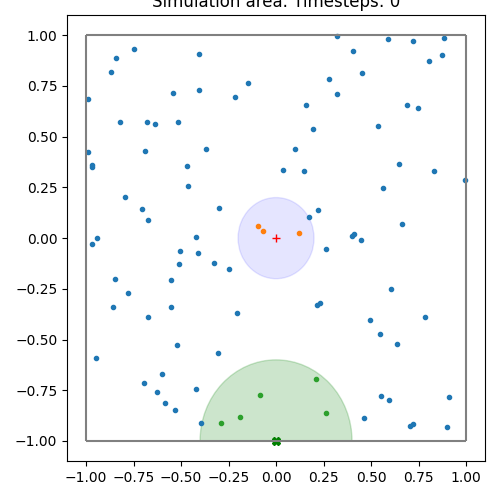
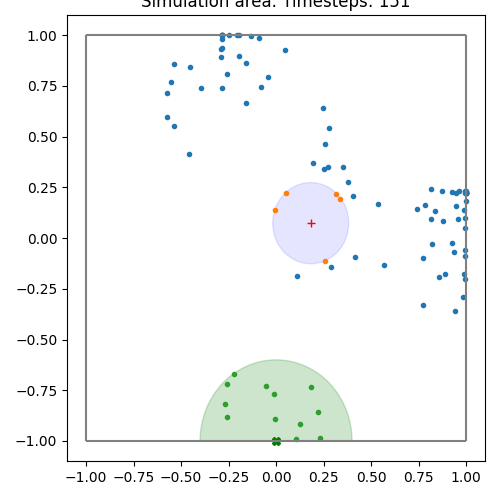
upd

diff --git a/src/env/env.py b/src/env/env.py
@@ -14,6 +14,8 @@ from enum import Enum, auto
 
 import constants as const
 
+from typing import Tuple
+
 class UserEnum(Enum):
     @classmethod
     def all(cls):
@@ -36,6 +38,7 @@ class SwitchDistances:
     to_leader = const.SWITCH_DISTANCE_TO_LEADER
     to_exit   = const.SWITCH_DISTANCE_TO_EXIT
     to_escape = const.SWITCH_DISTANCE_TO_ESCAPE
+    to_pedestrian = const.SWITCH_DISTANCE_TO_OTHER_PEDESTRIAN
 
 
 def is_distance_low(pedestrians_positions, destination, radius):
@@ -44,6 +47,7 @@ def is_distance_low(pedestrians_positions, destination, radius):
 
 
 def update_statuses(statuses, pedestrian_positions, agent_position, exit_position):
+
     condition = is_distance_low(
         pedestrian_positions, agent_position, SwitchDistances.to_leader)
     statuses[condition] = Status.FOLLOWER
@@ -77,16 +81,20 @@ class Pedestrians:
         self.num = num
 
     def reset(self, agent_position, exit_position):
-        self.positions = np.random.uniform(-1.0, 1.0, size=(self.num, 2))
-        self.directions = np.zeros((self.num, 2), dtype=np.float32)
-
+        self.positions  = np.random.uniform(-1.0, 1.0, size=(self.num, 2))
+        self.directions = np.random.uniform(-1.0, 1.0, size=(self.num, 2))
+        self.normirate_directions()
         self.statuses = np.array([Status.VISCEK for _ in range(self.num)])
         self.statuses = update_statuses(
             self.statuses,
             self.positions,
             agent_position,
             exit_position
-        ) 
+        )
+    
+    def normirate_directions(self) -> None:
+        x = self.directions
+        self.directions = (x.T / np.linalg.norm(x, axis=1)).T
 
 
 class Agent:
@@ -102,7 +110,6 @@ class Agent:
     def reset(self):
         self.position = self.start_position.copy()
         self.direction = self.start_position.copy()
-
 
 class Exit:
     position : np.ndarray
@@ -139,15 +146,88 @@ class Area:
     def reset(self):
         pass
 
-    def step(self, pedestrian_positions, pedestrian_directions):
-        
-        corrected_pedestrian_positions = pedestrian_positions
-        corrected_pedestrian_directions = pedestrian_directions
+    def pedestrians_step(self, pedestrians : Pedestrians, agent : Agent) -> Tuple[Pedestrians, bool, float]:
 
-        return (
-            corrected_pedestrian_positions,
-            corrected_pedestrian_directions
-        )
+        termination, reward = False, 0
+
+        escaped = pedestrians.statuses == Status.ESCAPED
+        pedestrians.positions[escaped] = self.exit.position
+
+        exiting = pedestrians.statuses == Status.EXITING
+        if not any(exiting):
+            vec2exit = self.exit.position - pedestrians.positions[exiting]
+            len2exit = np.linalg.norm(vec2exit, axis=1)
+            vec_size = np.minimum(len2exit, self.step_size)
+            vec2exit = (vec2exit.T / len2exit * vec_size).T # TODO do we really need this transpose?
+            pedestrians.positions[exiting] += vec2exit
+
+        following = pedestrians.statuses == Status.FOLLOWER
+        pedestrians.directions[following] = agent.direction
+
+        viscek = pedestrians.statuses == Status.VISCEK
+        fv = np.logical_or(following, viscek)
+        fv_directions = pedestrians.directions[fv]
+
+        dm = distance_matrix(pedestrians.positions[viscek], 
+                             pedestrians.positions[fv], 2)
+        
+        intersection = np.where(dm < SwitchDistances.to_pedestrian, 1, 0)
+        n_intersections = np.maximum(1, intersection.sum(axis=1))
+
+        # pedestrians.normirate_directions()
+        fv_directions = (fv_directions.T / np.linalg.norm(fv_directions, axis=1)).T 
+        
+        v_directions_x = (intersection * fv_directions[:, 0]).sum(axis=1) / n_intersections
+        v_directions_y = (intersection * fv_directions[:, 1]).sum(axis=1) / n_intersections
+        v_directions = np.concatenate((v_directions_x[np.newaxis, :], 
+                                       v_directions_y[np.newaxis, :])).T
+        
+        randomization = (np.random.rand(sum(viscek), 2) - 0.5) * 2 * self.step_size / 2
+        v_directions += randomization
+        v_directions = (v_directions.T / np.linalg.norm(v_directions, axis=1)).T
+        
+        pedestrians.directions[viscek] = v_directions * self.step_size
+        pedestrians.positions[fv] += pedestrians.directions[fv] 
+
+        clipped = np.clip(pedestrians.positions, 
+                    [-self.width, -self.height], [self.width, self.height])
+        miss = pedestrians.positions - clipped
+
+        pedestrians.positions -= 2 * miss
+
+        pedestrians.directions *= np.where(miss!=0, -1, 1) #/ self.step_size
+
+        return pedestrians
+
+    def agent_step(self, action : list, agent : Agent) -> Tuple[Agent, bool, float]:
+        """
+        Perform agent step:
+            1. Read & preprocess action
+            2. Check wall collision
+            3. Return (updated agent, termination, reward)
+        """
+        action = np.array(action)
+        np.clip(action, -1, 1, out=action)
+        agent.direction = self.step_size * action
+        
+        if not self._if_wall_collision(agent):
+            agent.position += agent.direction
+            print(agent.position, agent.direction)
+            return agent, False, 0.
+        else:
+            return agent, True, -5.
+
+    def _if_wall_collision(self, agent : Agent):
+        pt = agent.position + agent.direction
+
+        left  = pt[0] < -self.width
+        right = pt[0] > self.width
+        down  = pt[1] < -self.height  
+        up    = pt[1] > self.height
+        
+        if left or right or down or up:
+            return True
+        return False
 
 
 class EvacuationEnv(gym.Env):
@@ -178,8 +258,17 @@ class EvacuationEnv(gym.Env):
         self.pedestrians.reset(agent_position=self.agent.position,
                                exit_position=self.area.exit.position)
 
-    def step(self):
-        pass
+    def step(self, action : list):
+        self.time.step()
+        self.agent, termination, episode_reward_agent = self.area.agent_step(action, self.agent)
+        self.pedestrians = self.area.pedestrians_step(self.pedestrians, self.agent)
+        self.pedestrians.statuses = update_statuses(
+            statuses=self.pedestrians.statuses,
+            pedestrian_positions=self.pedestrians.positions,
+            agent_position=self.agent.position,
+            exit_position=self.area.exit.position
+        )
+        # TODO get reward
 
     def render(self):
         fig, ax = plt.subplots(figsize=(5, 5))
@@ -221,6 +310,9 @@ class EvacuationEnv(gym.Env):
             ax.plot(self.pedestrians.positions[selected_pedestrians, 0], 
                     self.pedestrians.positions[selected_pedestrians, 1],
                 lw=0, marker='.', color=color)
+            # for i in range(self.pedestrians.directions.shape[0]):
+            #     ax.plot(self.pedestrians.positions[i],
+            #     self.pedestrians.positions[i] + self.pedestrians.directions[i])
 
         # Draw agent
         ax.plot(agent_coordinates[0], agent_coordinates[1], marker='+', color='red')
@@ -251,4 +343,15 @@ e = EvacuationEnv(number_of_pedestrians=100)
 e.reset()
 # %%
 e.render()
+# %%
+e.step([1, 0])
+# %%
+e.render()
+
+# %%
+from time import sleep
+for i in range(150):
+    e.step([np.sin(i*0.1), np.cos(i*0.1)])
+    e.render()
+    sleep(0.1)
 # %%

diff --git a/src/env/constants.py b/src/env/constants.py
@@ -5,6 +5,7 @@ ALPHA = 3                           # parameter of gradient state
 STEP_SIZE = 0.01
 
 SWITCH_DISTANCE_TO_LEADER = 0.2     # radius of catch by leader
+SWITCH_DISTANCE_TO_OTHER_PEDESTRIAN = SWITCH_DISTANCE_TO_LEADER
 SWITCH_DISTANCE_TO_EXIT   = 0.4
 SWITCH_DISTANCE_TO_ESCAPE = 0.01
 

diff --git a/src/env/env_vicsek_refactored.py b/src/env/env_vicsek_refactored.py
@@ -56,6 +56,7 @@ class Status(Enum):
     ESCAPED = auto()
     "Evacuated pedestrian."
 
+
 class Pedestrians:
     num : int # number of pedestrians
     
